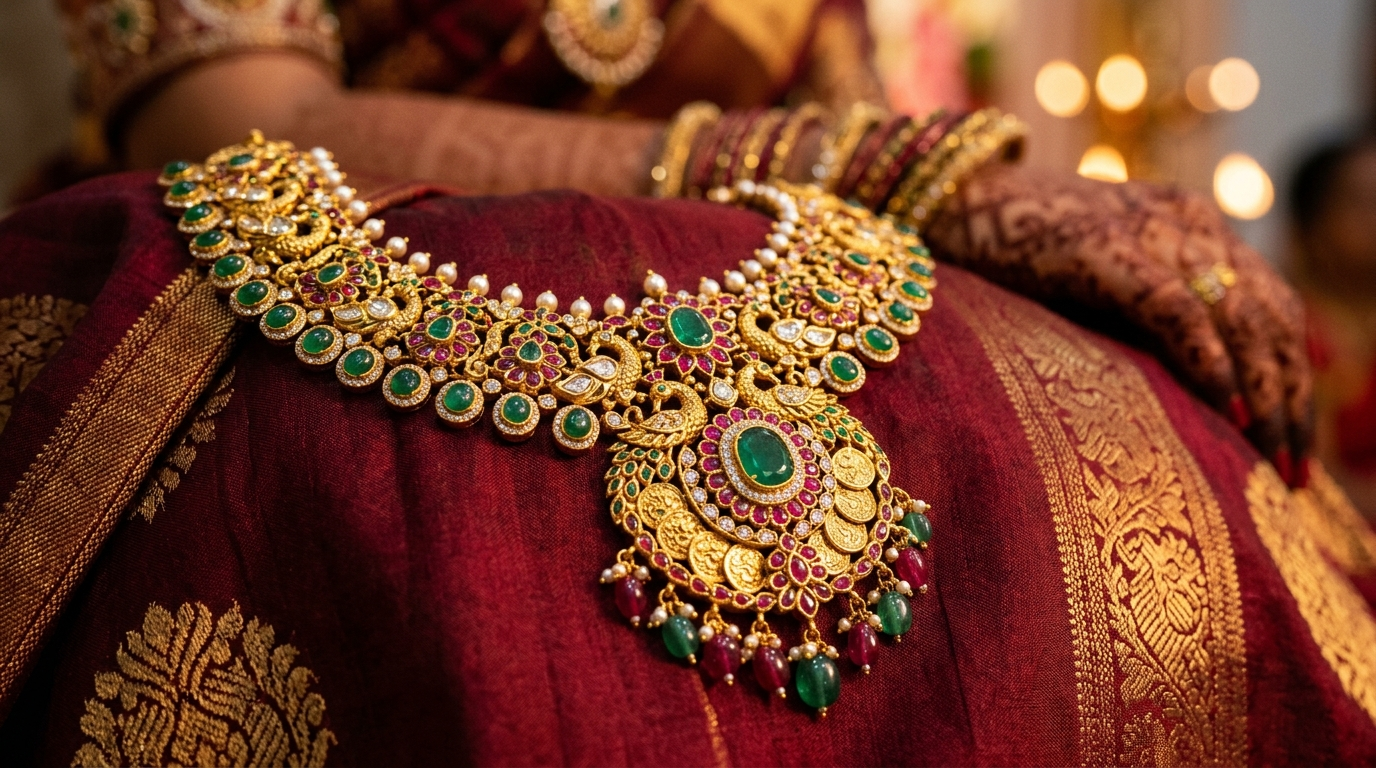
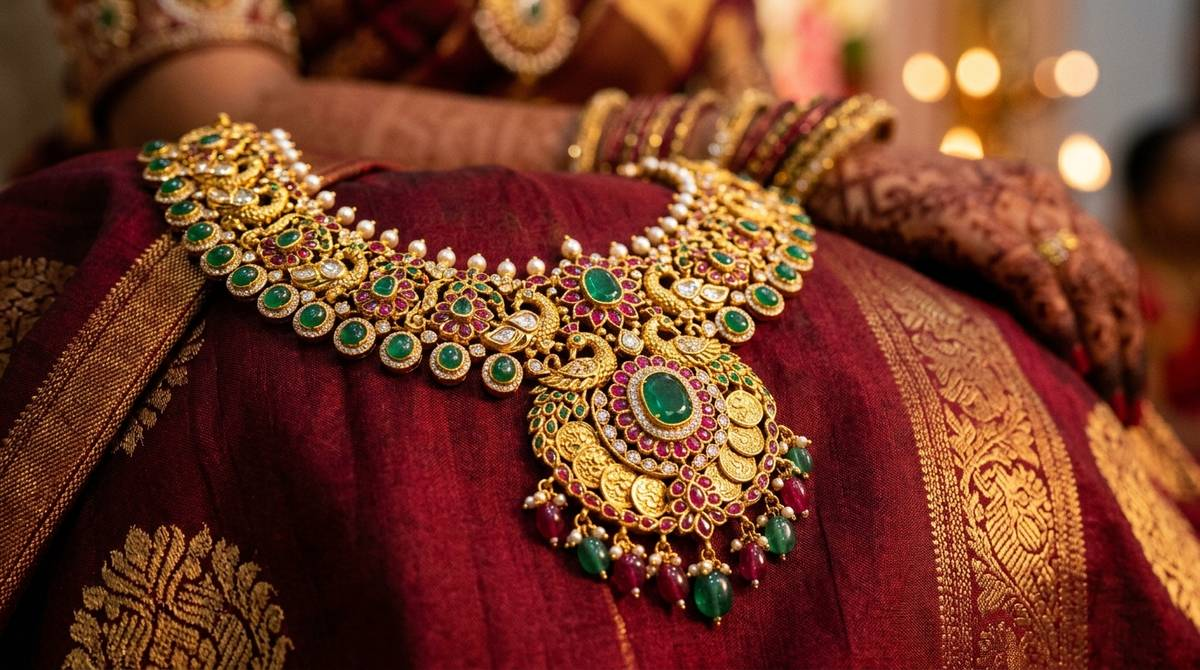
Web: compress images, drop unused font italics

diff --git a/apps/web/app/onboarding/success/page.tsx b/apps/web/app/onboarding/success/page.tsx
@@ -13,7 +13,7 @@ export default function OnboardingSuccessPage() {
     <main
       className="relative flex min-h-screen items-center justify-center bg-cover bg-center bg-fixed bg-no-repeat px-4 py-12"
       style={{
-        backgroundImage: "url('/assets/onboarding_bg.png')",
+        backgroundImage: "url('/assets/onboarding_bg.jpg')",
       }}
     >
       <div className="fixed inset-0 bg-[#FFFDF8]/75 backdrop-blur-[0.5px] pointer-events-none" />

diff --git a/apps/web/components/onboarding-shell.tsx b/apps/web/components/onboarding-shell.tsx
@@ -26,7 +26,7 @@ export function OnboardingShell({
     <main
       className="relative min-h-screen bg-cover bg-center bg-fixed bg-no-repeat px-4 py-8 md:py-12"
       style={{
-        backgroundImage: "url('/assets/onboarding_bg.png')",
+        backgroundImage: "url('/assets/onboarding_bg.jpg')",
       }}
     >
       {/* Soft warm overlay to ensure high contrast and legibility */}

diff --git a/apps/web/app/layout.tsx b/apps/web/app/layout.tsx
@@ -8,14 +8,12 @@ const cormorantGaramond = Cormorant_Garamond({
   variable: '--font-heading',
   subsets: ['latin'],
   weight: ['500', '600', '700'],
-  style: ['normal', 'italic'],
 });
 
 const playfairDisplay = Playfair_Display({
   variable: '--font-playfair',
   subsets: ['latin'],
   weight: ['500', '600', '700'],
-  style: ['normal', 'italic'],
 });
 
 const cinzel = Cinzel({

diff --git a/apps/web/components/auth-shell.tsx b/apps/web/components/auth-shell.tsx
@@ -14,7 +14,7 @@ export function AuthShell({
     <main
       className="relative flex min-h-screen items-center justify-center bg-cover bg-center bg-fixed bg-no-repeat px-4 py-12"
       style={{
-        backgroundImage: "url('/assets/onboarding_bg.png')",
+        backgroundImage: "url('/assets/onboarding_bg.jpg')",
       }}
     >
       {/* Soft warm overlay */}
